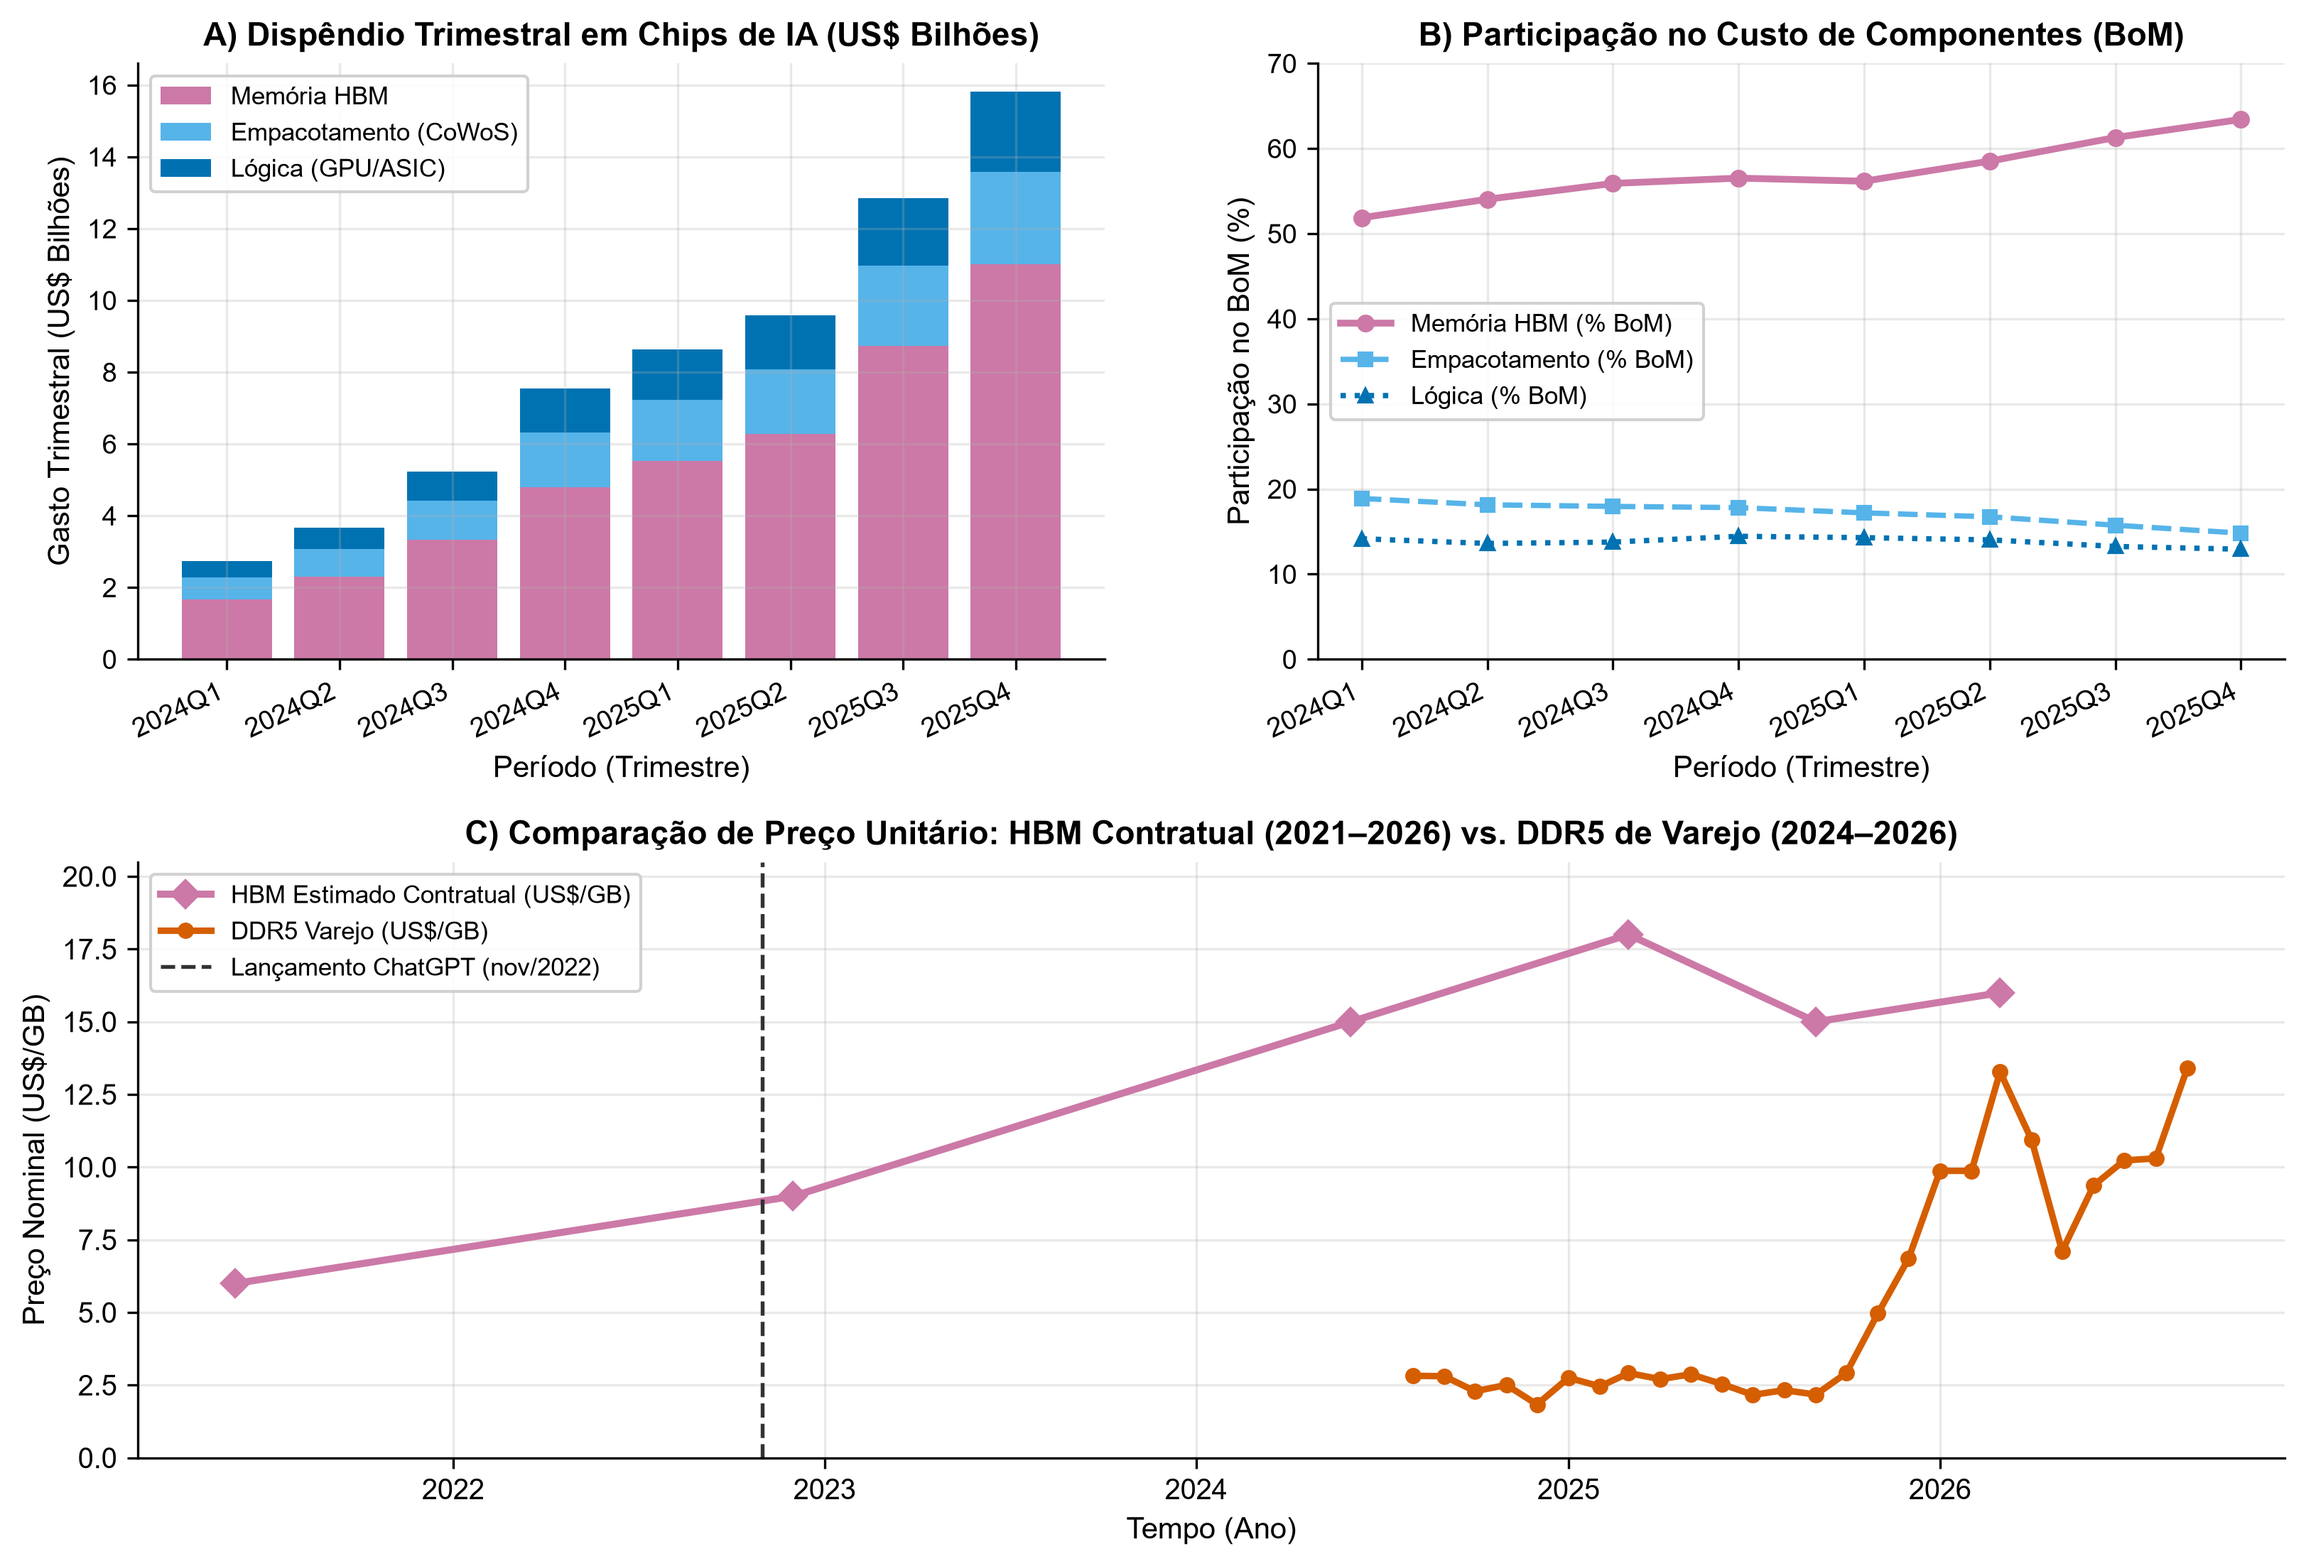
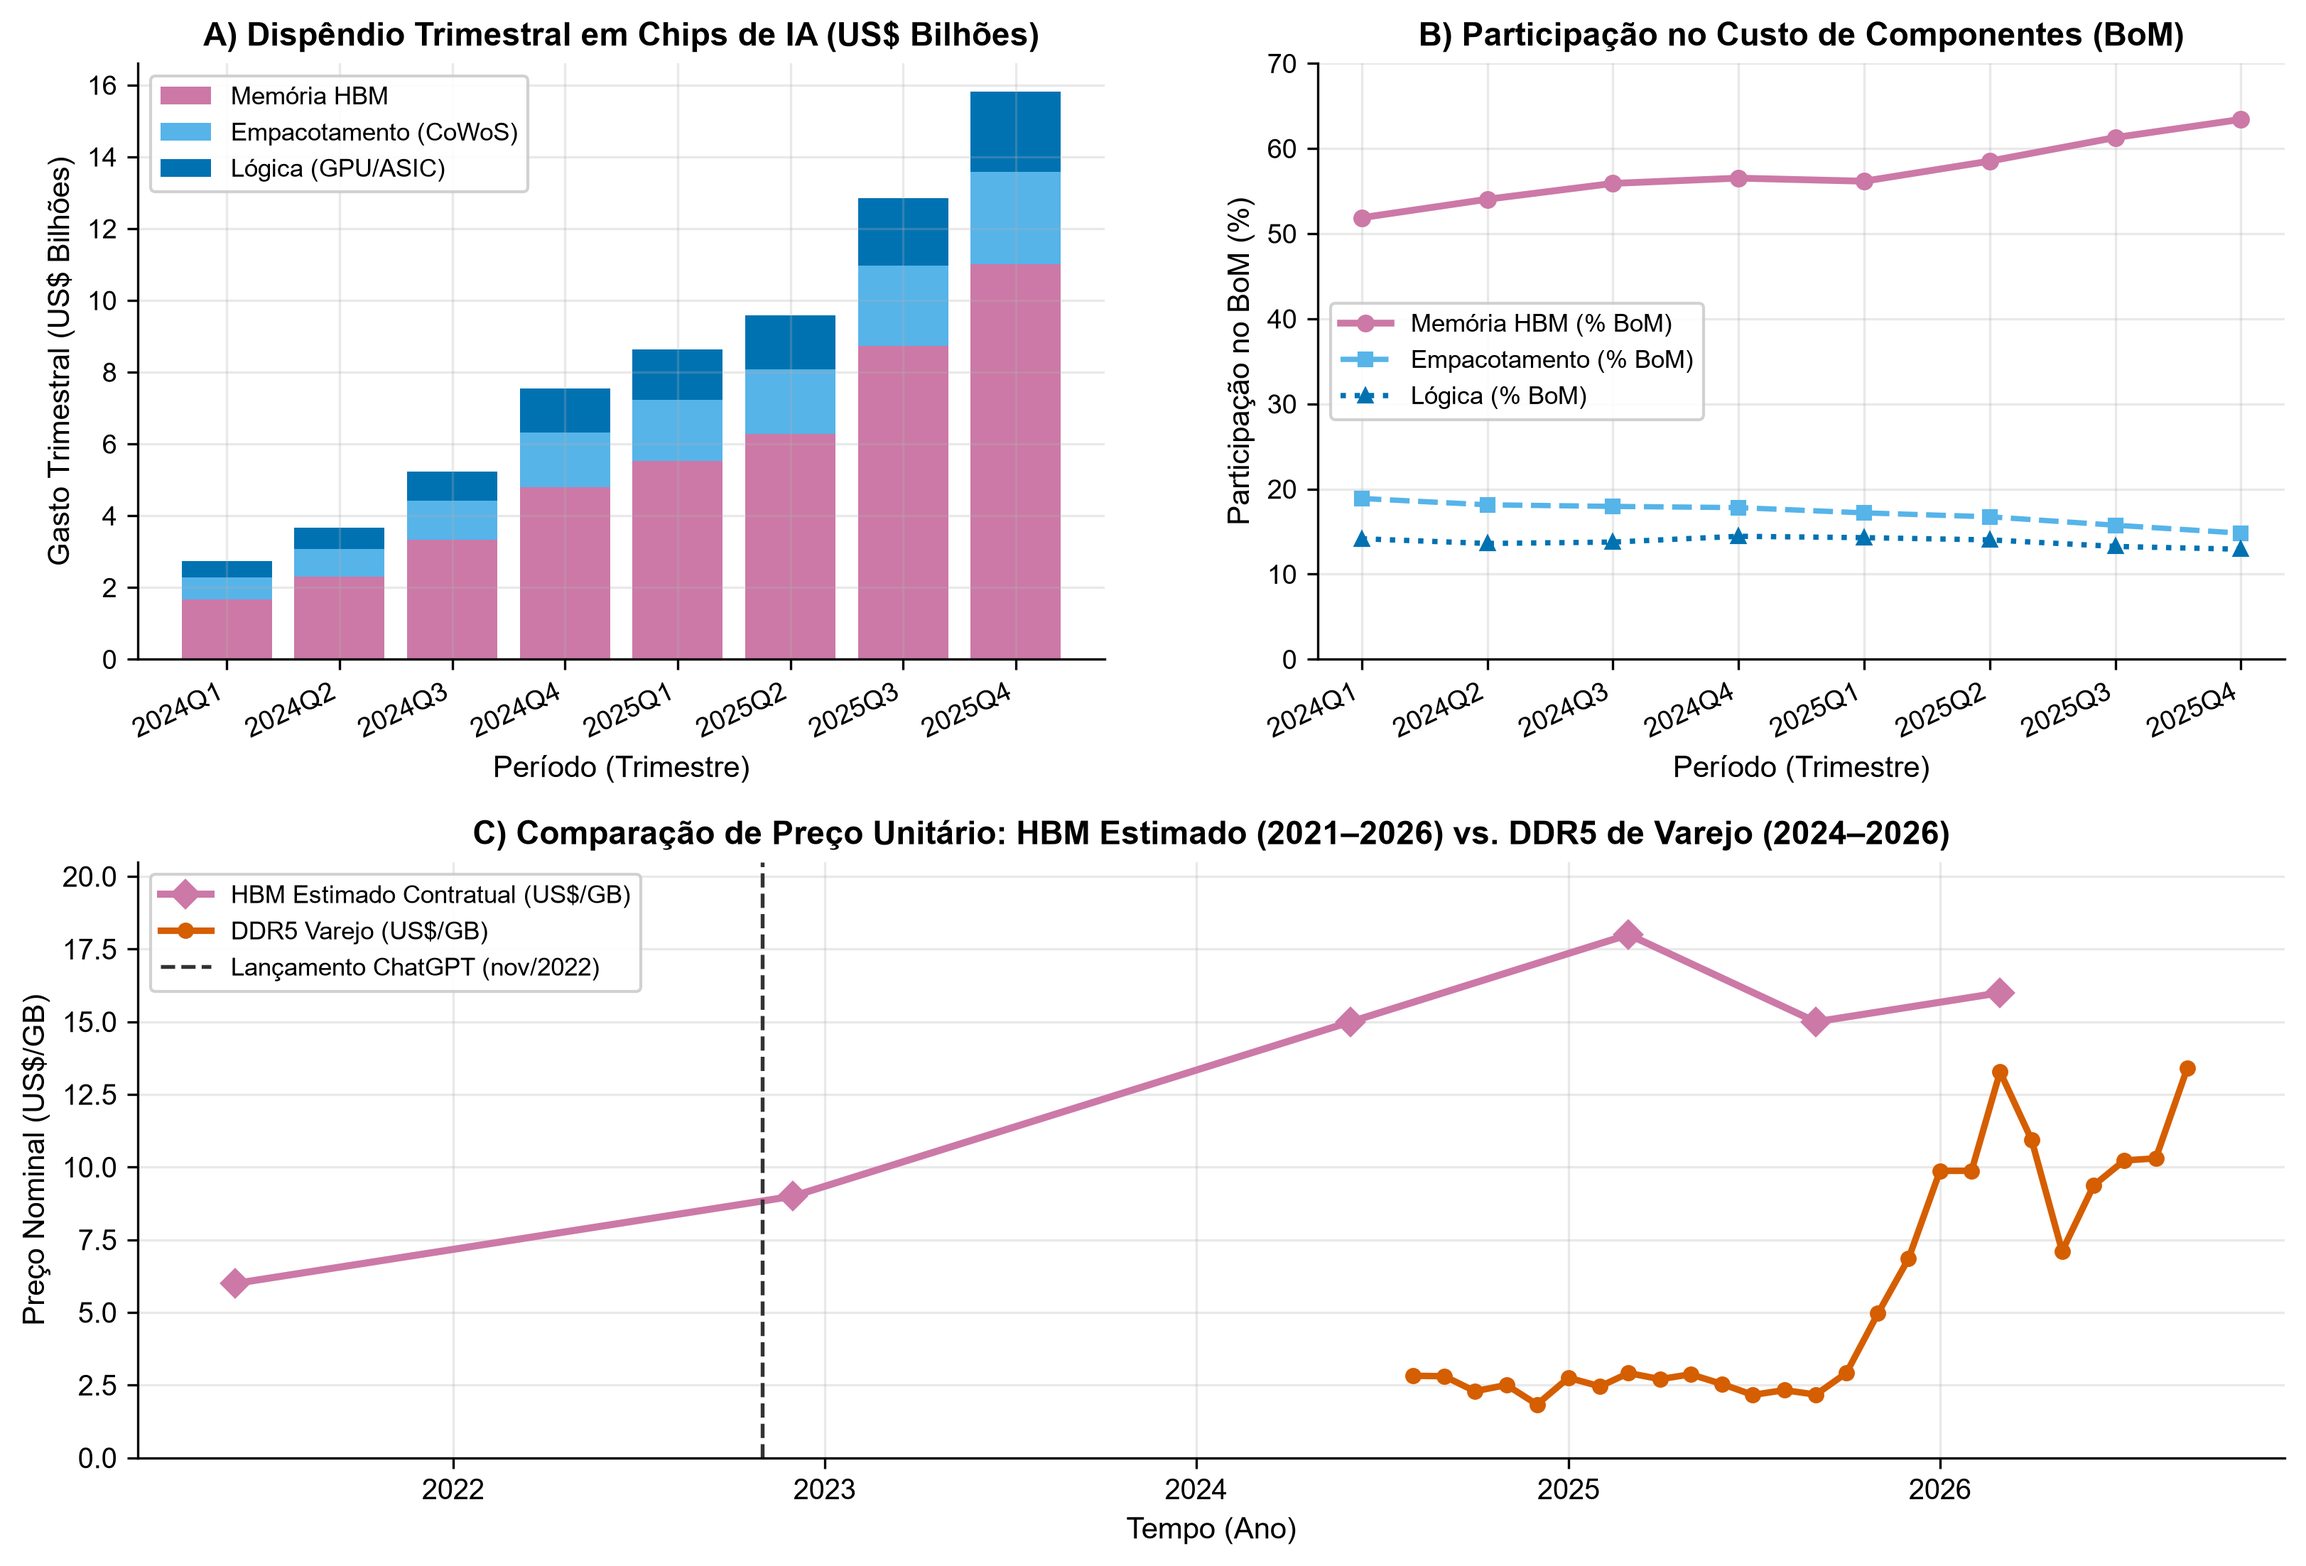
docs: improve README code block formatting and update Fig 5

Changed region(s): [[0.1867, 0.5243, 0.8712, 0.5551]]

diff --git a/README.md b/README.md
@@ -14,58 +14,66 @@ Repositório aberto com os scripts analíticos e a base de dados processada do T
 Este repositório contém o código e os dados necessários para reproduzir integralmente as análises descritivas, testes de quebra estrutural e visualizações apresentadas no artigo.
 
 - **Linguagem:** Python 3.12+
-- **Semente Aleatória:** `seed = 42` (para reprodutibilidade estocástica nos testes de bootstrap)
-- **Deflação Monetária:** Preços expressos em US$ constantes de setembro de 2026 via índice CPIAUCSL (*FRED*)
+- **Semente Aleatória:** seed = 42 (reprodutibilidade estocástica nos testes de bootstrap)
+- **Deflação Monetária:** Preços em US$ constantes de setembro de 2026 via índice CPIAUCSL (*FRED*)
 
 ---
 
 ## 2. Estrutura do Repositório
 
-```text
+`	ext
 ├── data/
-│   ├── memory-prices.csv                       # Dados brutos consolidados do Stanford DAM Project
-│   ├── cpiaucsl.csv                            # Série histórica do índice inflacionário CPIAUCSL (FRED)
+│   ├── memory-prices.csv                  # Dados brutos do Stanford DAM
+│   ├── cpiaucsl.csv                       # Índice inflacionário CPIAUCSL
 │   └── processed/
-│       └── memory_prices_clean_2019_2026.csv   # Base tratada, deflacionada e reindexada (jan/2019 a set/2026)
-├── tcc.ipynb                                   # Caderno Jupyter principal com o pipeline analítico completo
-├── requirements.txt                            # Versões exatas dos pacotes Python utilizados
-├── .gitignore                                  # Arquivos ignorados pelo controle de versão
-└── README.md                                   # Documentação e instruções de execução
-```
+│       └── memory_prices_clean_2019_2026.csv  # Base tratada e deflacionada
+├── tcc.ipynb                              # Pipeline analítico completo
+├── requirements.txt                       # Dependências com versões exatas
+├── .gitignore                             # Controle de versão git
+└── README.md                              # Instruções de execução
+`
 
 ---
 
 ## 3. Instruções de Instalação e Execução
 
 ### Passo 1: Clonar o Repositório
-```bash
+
+`ash
 git clone https://github.com/vitorszvr/tcc-analise.git
 cd tcc-analise
-```
+`
 
-### Passo 2: Criar e Ativar Ambiente Virtual (Recomendado)
-- **Windows (PowerShell):**
-  ```powershell
-  python -m venv .venv
-  .\.venv\Scripts\Activate.ps1
-  ```
-- **Linux / macOS (Bash):**
-  ```bash
-  python3 -m venv .venv
-  source .venv/bin/activate
-  ```
+### Passo 2: Criar e Ativar o Ambiente Virtual
+
+No Windows (PowerShell):
+
+`powershell
+python -m venv .venv
+.\.venv\Scripts\Activate.ps1
+`
+
+No Linux ou macOS (Bash):
+
+`ash
+python3 -m venv .venv
+source .venv/bin/activate
+`
 
 ### Passo 3: Instalar as Dependências
-```bash
+
+`ash
 pip install --upgrade pip
 pip install -r requirements.txt
-```
+`
 
 ### Passo 4: Executar o Caderno Analítico
-```bash
+
+`ash
 jupyter notebook tcc.ipynb
-```
-Execute as células sequencialmente (`Kernel -> Restart & Run All`) para gerar todas as tabelas estatísticas, cálculos de volatilidade e modelos de ponto de mudança (*Hinge Regression* e *Step Change* de Bai-Perron).
+`
+
+Execute as células sequencialmente (Kernel -> Restart & Run All) para gerar todas as tabelas estatísticas, cálculos de volatilidade e modelos de ponto de mudança (*Hinge Regression* e *Step Change* de Bai-Perron).
 
 ---
 
@@ -75,6 +83,7 @@ Execute as células sequencialmente (`Kernel -> Restart & Run All`) para gerar t
    - Séries históricas de John C. McCallum (1956–jul/2024);
    - Monitoramento contemporâneo de mercado via Keepa / Amazon EUA (ago/2024–set/2026);
    - Estimativas de dispêndio com HBM modeladas pela Epoch AI e relatórios setoriais da TrendForce e SemiAnalysis.
+
 2. **Federal Reserve Bank of St. Louis (FRED):**
    - Série CPIAUCSL (*Consumer Price Index for All Urban Consumers: All Items in U.S. City Average*).
 
